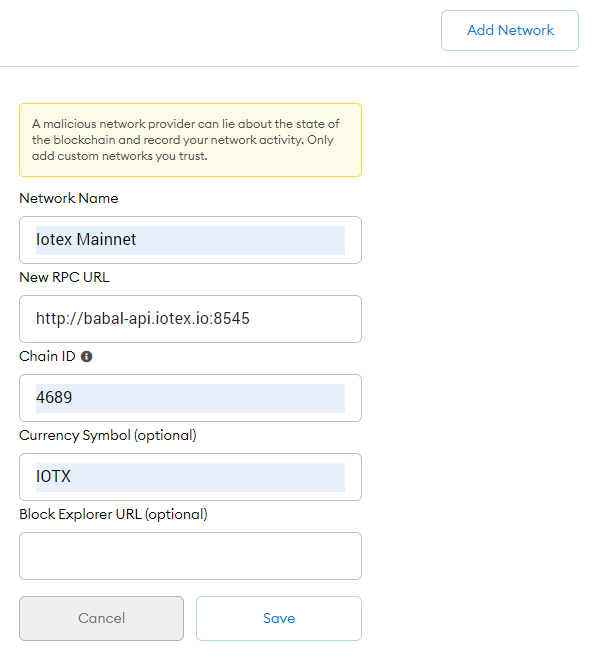
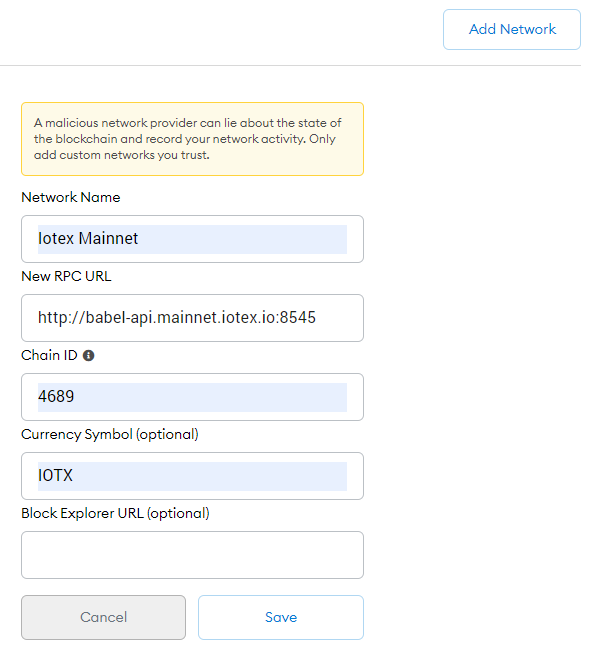
optimize doc

diff --git a/doc/truffle.md b/doc/truffle.md
@@ -4,7 +4,7 @@ How to use truffle, please refer to [the official truffle document](https://www.
 
 This guide only describes how to configure truffle so that you could development and deploy contracts on IOTEX network.
 
-Let's assume that the server is deploy on HOST=http://babal-api.iotex.io:8545 and you had already created a truffle project.
+Let's assume that the server is deploy on HOST=http://babel-api.mainnet.iotex.io:8545 and you had already created a truffle project.
 
 ## 1. Install Package
 [@truffle/hdwallet-provider](https://www.npmjs.com/package/@truffle/hdwallet-provider)
@@ -32,9 +32,12 @@ module.exports = {
             phrase: MNEMONIC,
           },
           providerOrUrl: `${HOST}`,
-          shareNonce: true,
+          shareNonce: true
         }),
       network_id: 4689,    // IOTEX mainnet chain id 4689
+      gas: 8500000,
+      gasPrice: 1000000000000,
+      skipDryRun: true
     }
   }
 }
@@ -55,6 +58,9 @@ module.exports = {
     dev: {
       provider: () => new HDWalletProvider(privateKeys, `${HOST}`, 0, 2),
       network_id: 4689,    // IOTEX mainnet chain id 4689
+      gas: 8500000,
+      gasPrice: 1000000000000,
+      skipDryRun: true
     }
   }
 }

diff --git a/doc/subgraph.md b/doc/subgraph.md
@@ -6,7 +6,7 @@ How to use Subgraph, please refer to [the official Subgraph document](https://th
 
 Since subgraph works base on truffle, you should configure truffle first, refer to [truffle integrate guide](./truffle.md).
 
-Let's assume that the server is deploy on HOST=http://babal-api.iotex.io:8545
+Let's assume that the server is deploy on HOST=https://babel-api.mainnet.iotex.io:8545
 
 Before deploying graph-node, please modify 'graph-node/docker/docker-compose.yml' as below,
 
@@ -14,5 +14,5 @@ Before deploying graph-node, please modify 'graph-node/docker/docker-compose.yml
 services:
   graph-node:
     environment:
-      ethereum: 'mainnet:http://babal-api.iotex.io:8545'
+      ethereum: 'mainnet:http://babel-api.mainnet.iotex.io:8545'
 ```

diff --git a/README.md b/README.md
@@ -4,6 +4,14 @@
 
 This document describes how to deploy and supported/unsupported APIs.
 
+The service would be deployed as below,
+* Mainnet
+  - Host: http://babel-api.mainnet.iotex.io:8545
+  - Chain ID: 4689
+* Testnet
+  - Host: http://babel-api.testnet.iotex.io:8545
+  - Chain ID: 4690
+
 Other tools/environment integrate guide please refer to below,
 
 * [Truffle](./doc/truffle.md)
@@ -25,7 +33,9 @@ sudo yum install nodejs
 ### 1.3. Configuration file
 create xxx/.env
 ```
-PORT=9000
+PORT=8545
+CHAIN_ID=4689
+END_POINT=https://api.iotex.one:443
 ```
 
 ### 1.4. Install Node Libraries

diff --git a/doc/metamask.md b/doc/metamask.md
@@ -1,6 +1,6 @@
 # Metamask Integrate Guide
 
-Let's assume that the server is deploy on HOST=http://babal-api.iotex.io:8545
+Let's assume that the server is deploy on HOST=http://babel-api.mainnet.iotex.io:8545
 
 ## 1. Open metamask
 ## 2. Open "Networks" menu, and choose "Custom RPC" button
